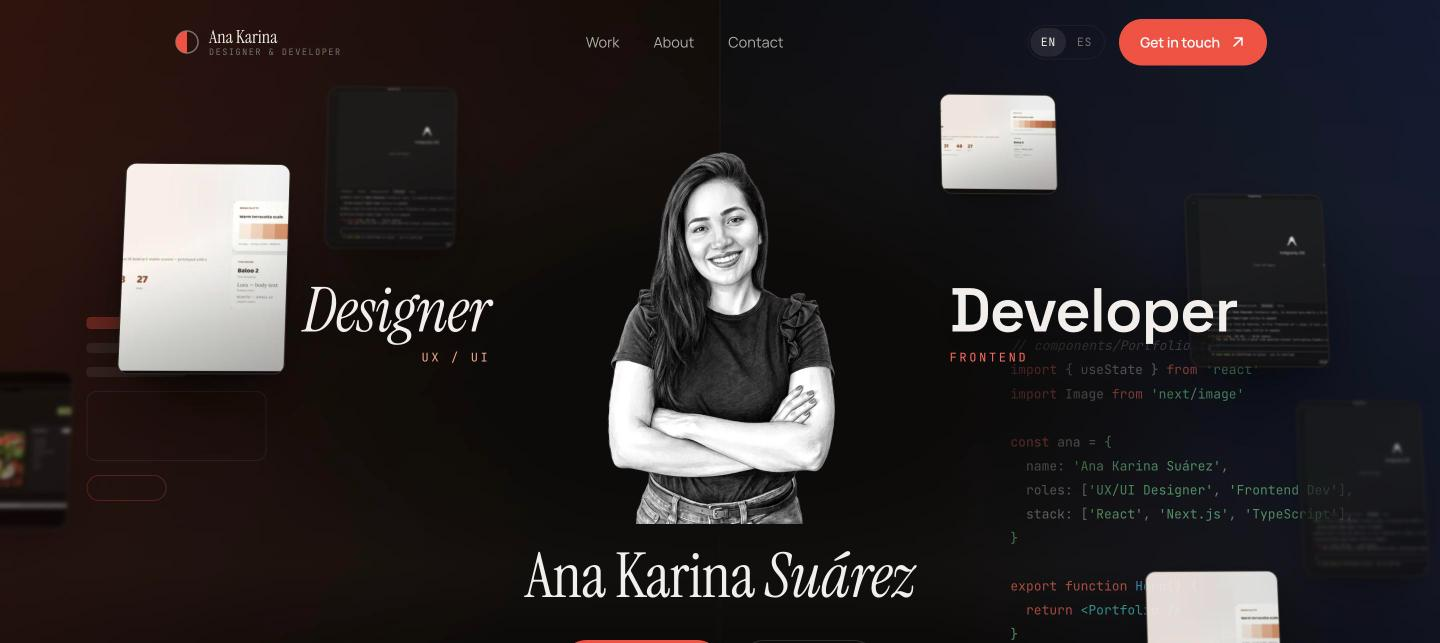
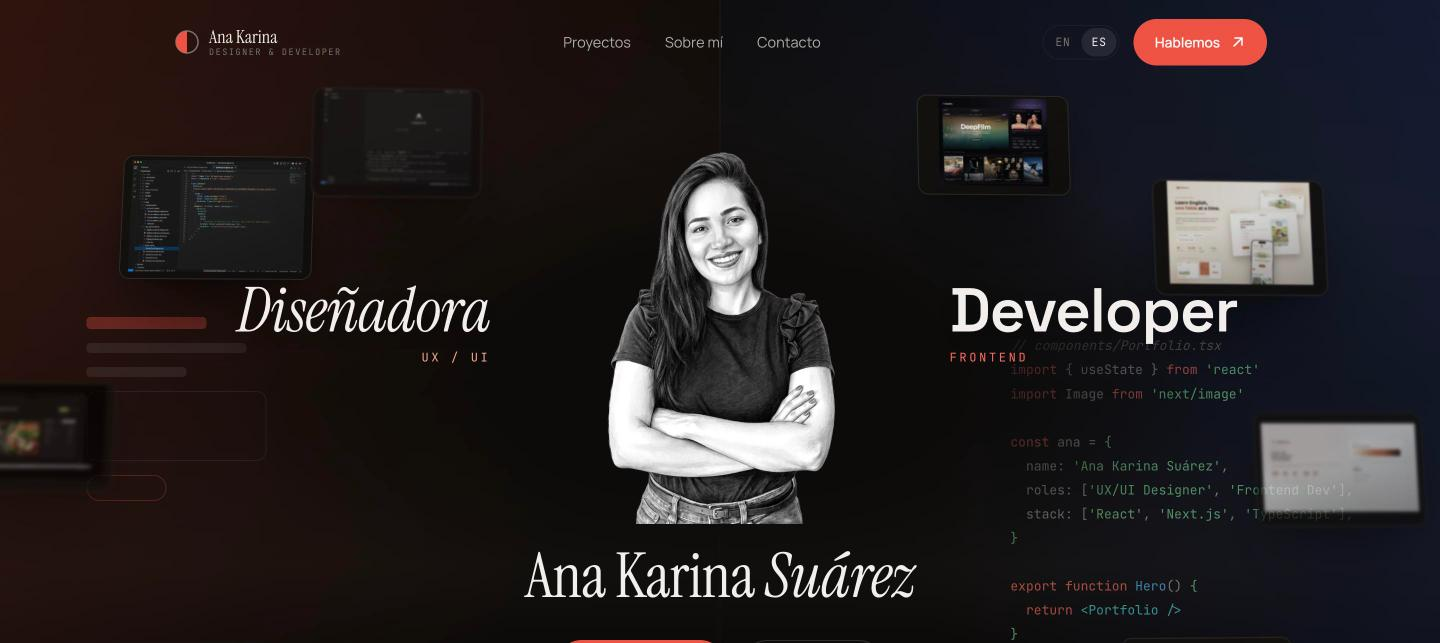
Hero float variety + WebP optimization
Hero: show the whole image in landscape float frames (contain), with 8
distinct source images (projects, Figma tokens, code editor). Suppress the
harmless hydration warning some browser extensions trigger on <body>.
Convert all PNG assets to WebP (code, value, zustand — up to −87% each) and
update references. Refresh the README hero banner.

diff --git a/app/styles/sections.css b/app/styles/sections.css
@@ -202,14 +202,17 @@ html.anim-frozen .hero-float-inner, [data-motion="off"] .hero-float-inner { anim
   background: linear-gradient(160deg, transparent 40%, rgba(8,6,10,0.35));
 }
 .hf-slot { display: block; position: absolute; inset: 0; width: 100%; height: 100%; }
-.hf-1 { width: clamp(118px, 13vw, 196px); height: clamp(158px, 17vw, 262px); top: 13%; left: 3%; }
-.hf-2 { width: clamp(104px, 10.5vw, 164px); height: clamp(132px, 13vw, 210px); top: 18%; right: 4%; }
-.hf-3 { width: clamp(118px, 11.8vw, 184px); height: clamp(92px, 9.2vw, 146px); bottom: 11%; left: 7%; }
-.hf-4 { width: clamp(104px, 10.5vw, 172px); height: clamp(132px, 14.5vw, 222px); bottom: 7%; right: 6%; }
-.hf-5 { width: clamp(92px, 9.2vw, 146px); height: clamp(118px, 11.8vw, 186px); top: 5%; left: 23%; }
-.hf-6 { width: clamp(84px, 8vw, 128px); height: clamp(106px, 10.5vw, 164px); top: 39%; left: 1%; }
-.hf-7 { width: clamp(96px, 9.2vw, 148px); height: clamp(74px, 8vw, 118px); top: 4%; right: 23%; }
-.hf-8 { width: clamp(88px, 8.6vw, 138px); height: clamp(110px, 11.8vw, 186px); top: 43%; right: 1%; }
+/* Show the whole floating image (fit inside the frame) instead of cropping it. */
+.hf-slot .img-slot-img { object-fit: contain; padding: 6px; }
+/* Landscape frames (~1.5) so the whole horizontal screenshot fits with `contain`. */
+.hf-1 { width: clamp(148px, 15vw, 232px); height: clamp(98px, 10vw, 154px); top: 12%; left: 3%; }
+.hf-2 { width: clamp(132px, 13vw, 208px); height: clamp(88px, 8.7vw, 138px); top: 16%; right: 4%; }
+.hf-3 { width: clamp(140px, 14vw, 220px); height: clamp(92px, 9.3vw, 146px); bottom: 12%; left: 6%; }
+.hf-4 { width: clamp(134px, 13.4vw, 212px); height: clamp(90px, 8.9vw, 140px); bottom: 8%; right: 5%; }
+.hf-5 { width: clamp(120px, 12vw, 188px); height: clamp(80px, 8vw, 124px); top: 5%; left: 22%; }
+.hf-6 { width: clamp(108px, 10.8vw, 168px); height: clamp(72px, 7.2vw, 112px); top: 40%; left: 1%; }
+.hf-7 { width: clamp(120px, 12vw, 190px); height: clamp(80px, 8vw, 126px); top: 4%; right: 22%; }
+.hf-8 { width: clamp(116px, 11.6vw, 182px); height: clamp(78px, 7.7vw, 120px); top: 44%; right: 1%; }
 @media (max-width: 880px) { .hero-floats { display: none; } }
 
 .dual-bg { position: absolute; inset: 0; z-index: 1; pointer-events: none; }

diff --git a/components/sections/SkillsOrbit.tsx b/components/sections/SkillsOrbit.tsx
@@ -56,7 +56,7 @@ const SKILLS: SkillEntry[] = [
     { en: ["Semantic", "Accessible", "ARIA", "WCAG", "SEO ready", "Maintainable"], es: ["Semántico", "Accesible", "ARIA", "WCAG", "Listo para SEO", "Mantenible"] }],
   ["CSS3", { en: "Scalable, mobile-first, system-driven interfaces.", es: "Interfaces escalables, mobile-first y por sistema." }, { slug: "css", color: "663399" }, FRONTEND, EXPERT,
     { en: ["Mobile-first", "Flexbox", "Grid", "Design tokens", "Animations", "Scalable"], es: ["Mobile-first", "Flexbox", "Grid", "Design tokens", "Animaciones", "Escalable"] }],
-  ["Zustand", { en: "Minimal, fast global state for React.", es: "Estado global mínimo y rápido en React." }, { src: "/icons/zustand.png", color: "A9743F" }, FRONTEND, PROFICIENT,
+  ["Zustand", { en: "Minimal, fast global state for React.", es: "Estado global mínimo y rápido en React." }, { src: "/icons/zustand.webp", color: "A9743F" }, FRONTEND, PROFICIENT,
     { en: ["Global state", "Minimal", "Fast", "No boilerplate", "Simple API", "React"], es: ["Estado global", "Mínimo", "Rápido", "Sin boilerplate", "API simple", "React"] }],
   ["GitHub", { en: "PR-based collaboration with reviews and CI.", es: "Colaboración por PRs con reviews y CI." }, { slug: "github", color: "FFFFFF" }, WORKFLOW, EXPERT,
     { en: ["Pull Requests", "Code reviews", "Automated CI", "Testing", "Collaboration", "Clean history"], es: ["Pull Requests", "Code reviews", "CI automatizado", "Testing", "Colaboración", "Historial limpio"] }],

diff --git a/app/layout.tsx b/app/layout.tsx
@@ -114,7 +114,10 @@ export default function RootLayout({
       data-motion="on"
       className={`${serif.variable} ${sans.variable} ${mono.variable} ${grotesk.variable}`}
     >
-      <body>
+      {/* suppressHydrationWarning: browser extensions (e.g. ColorZilla) add
+          attributes like `cz-shortcut-listen` to <body> before React hydrates,
+          which is harmless but triggers a dev-only hydration warning. */}
+      <body suppressHydrationWarning>
         {/* Without JS the scroll-reveal never runs — force content visible. */}
         <noscript>
           <style>{`.reveal,.reveal-rise .rise-inner{opacity:1!important;transform:none!important;filter:none!important}`}</style>

diff --git a/lib/images.ts b/lib/images.ts
@@ -16,10 +16,16 @@ export const IMAGES = {
     readeasily: "/images/read-easy.webp", // case study board de la app
   },
 
-  // Fotos flotantes decorativas del hero (se reciclan; el orden no importa).
+  // Fotos flotantes decorativas del hero — una distinta por marco (8): mezcla de
+  // capturas de proyectos, diseño (Figma) y código.
   floats: [
-    "/images/image-3.webp",
+    "/images/code.webp",
+    "/images/read-easy.webp",
+    "/images/value.webp",
+    "/images/evolution-pos.webp",
     "/images/claude-figma.webp",
     "/images/chef-at-home.webp",
+    "/images/deepfilm-collage.webp",
+    "/images/image-3.webp",
   ],
 } as const;
